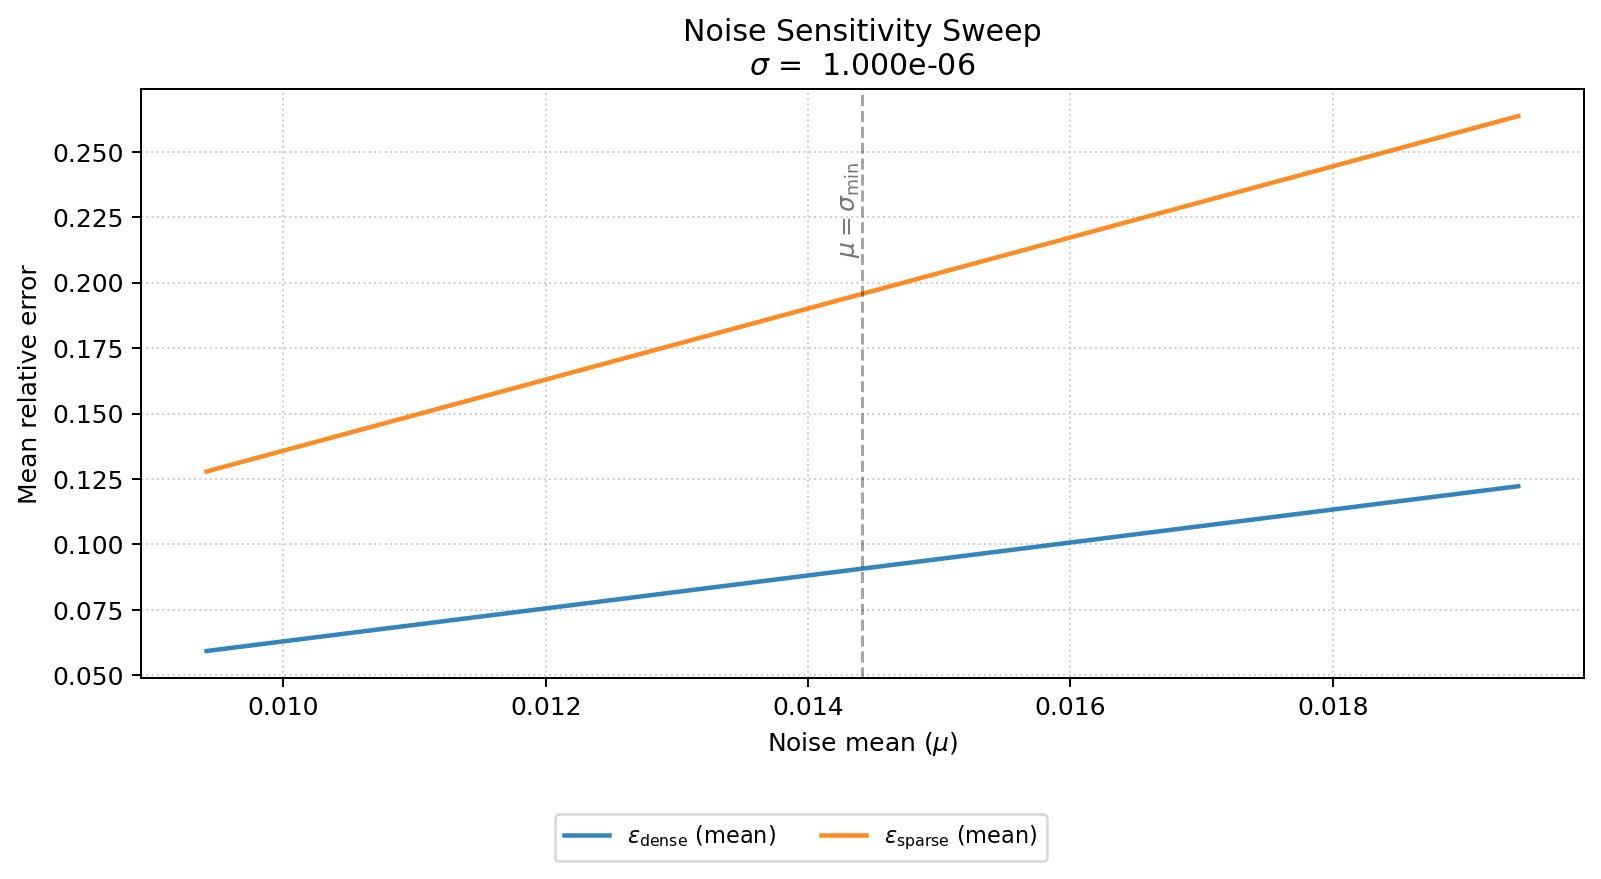
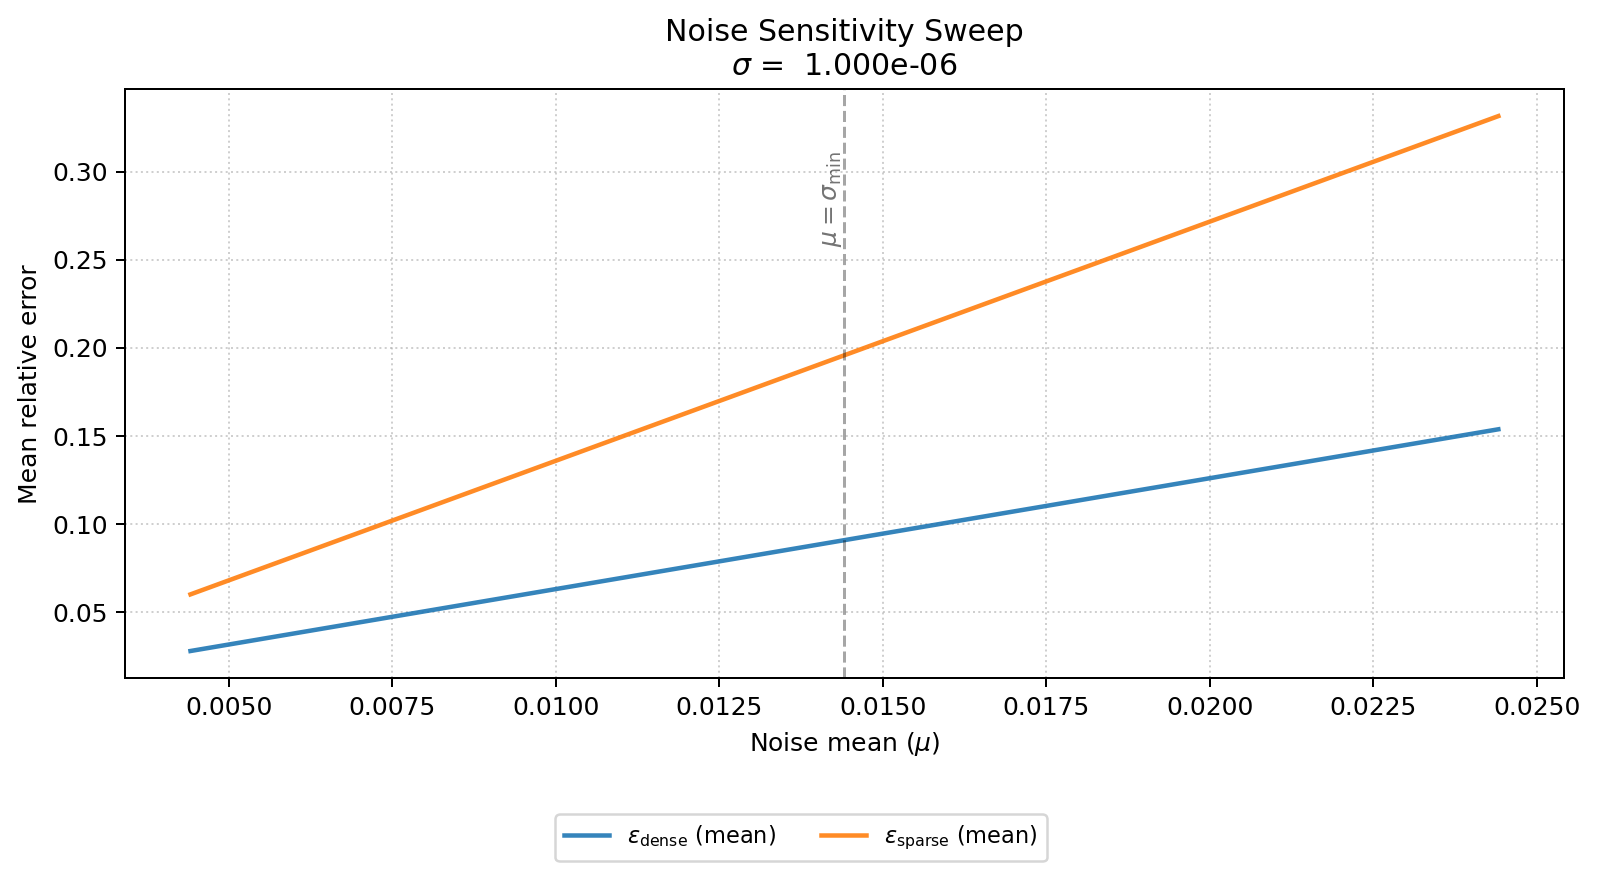
Adjust μ sweep range for improved sensitivity analysis

diff --git a/src/tools/test_noise_sensitivity.py b/src/tools/test_noise_sensitivity.py
@@ -445,8 +445,8 @@ def main():
     # Sweep config (local window around sigma_min)
     DO_MU_SWEEP = True
     SIGMA_MIN_FOR_VLINE = 0.01441493471008068  # NOTE: singular value (not noise sigma)
-    MU_SWEEP_A = SIGMA_MIN_FOR_VLINE - 0.005
-    MU_SWEEP_B = SIGMA_MIN_FOR_VLINE + 0.005
+    MU_SWEEP_A = SIGMA_MIN_FOR_VLINE - 0.01
+    MU_SWEEP_B = SIGMA_MIN_FOR_VLINE + 0.01
     MU_SWEEP_N = 100
     MU_SWEEP_LOG = False
     SWEEP_OUT = outPath.with_name(args.A_path.stem + "_mu_sweep.png")
